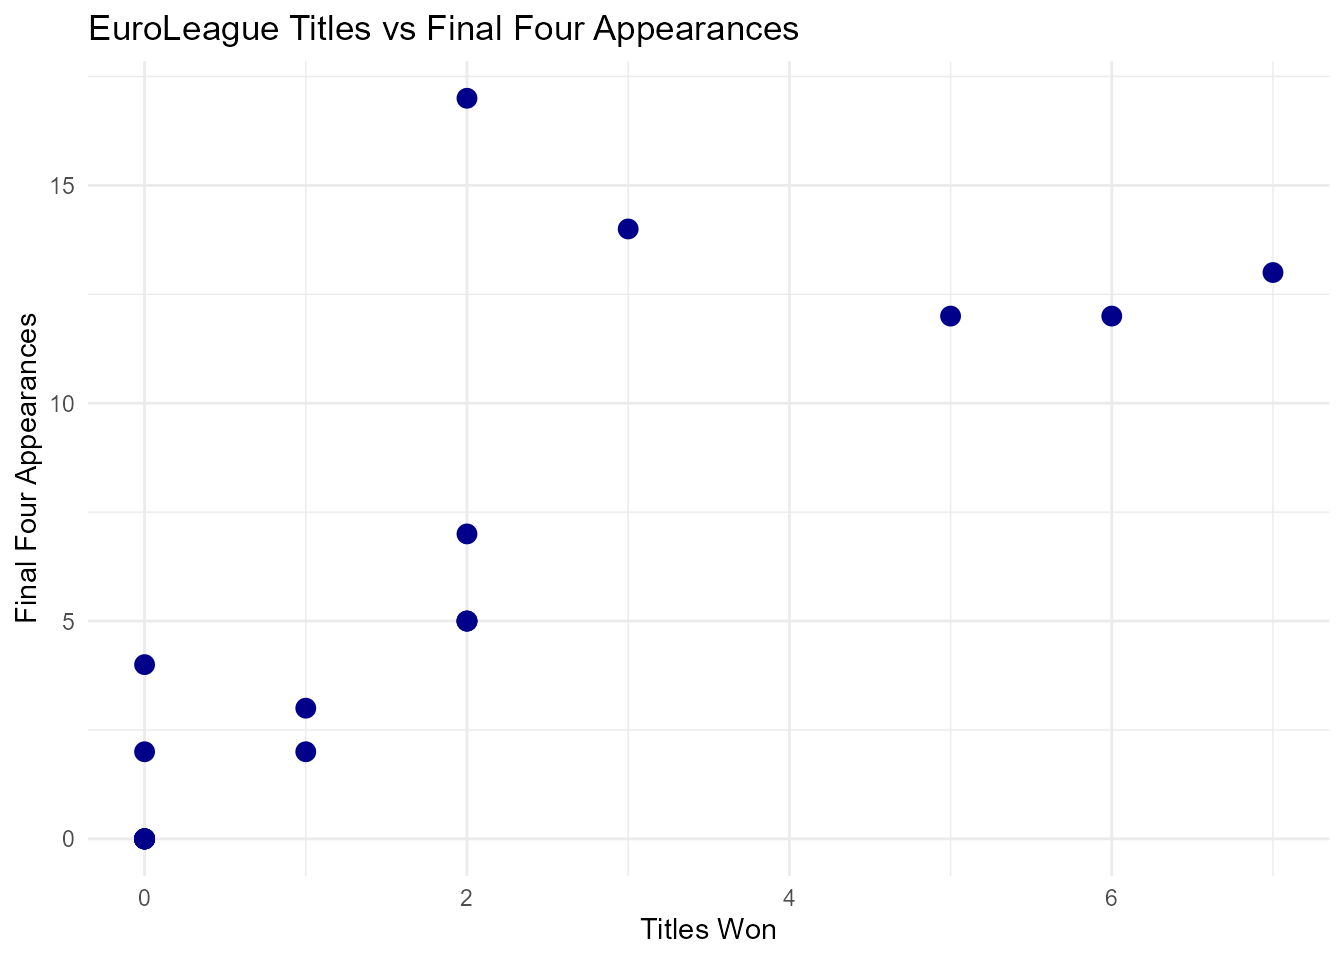
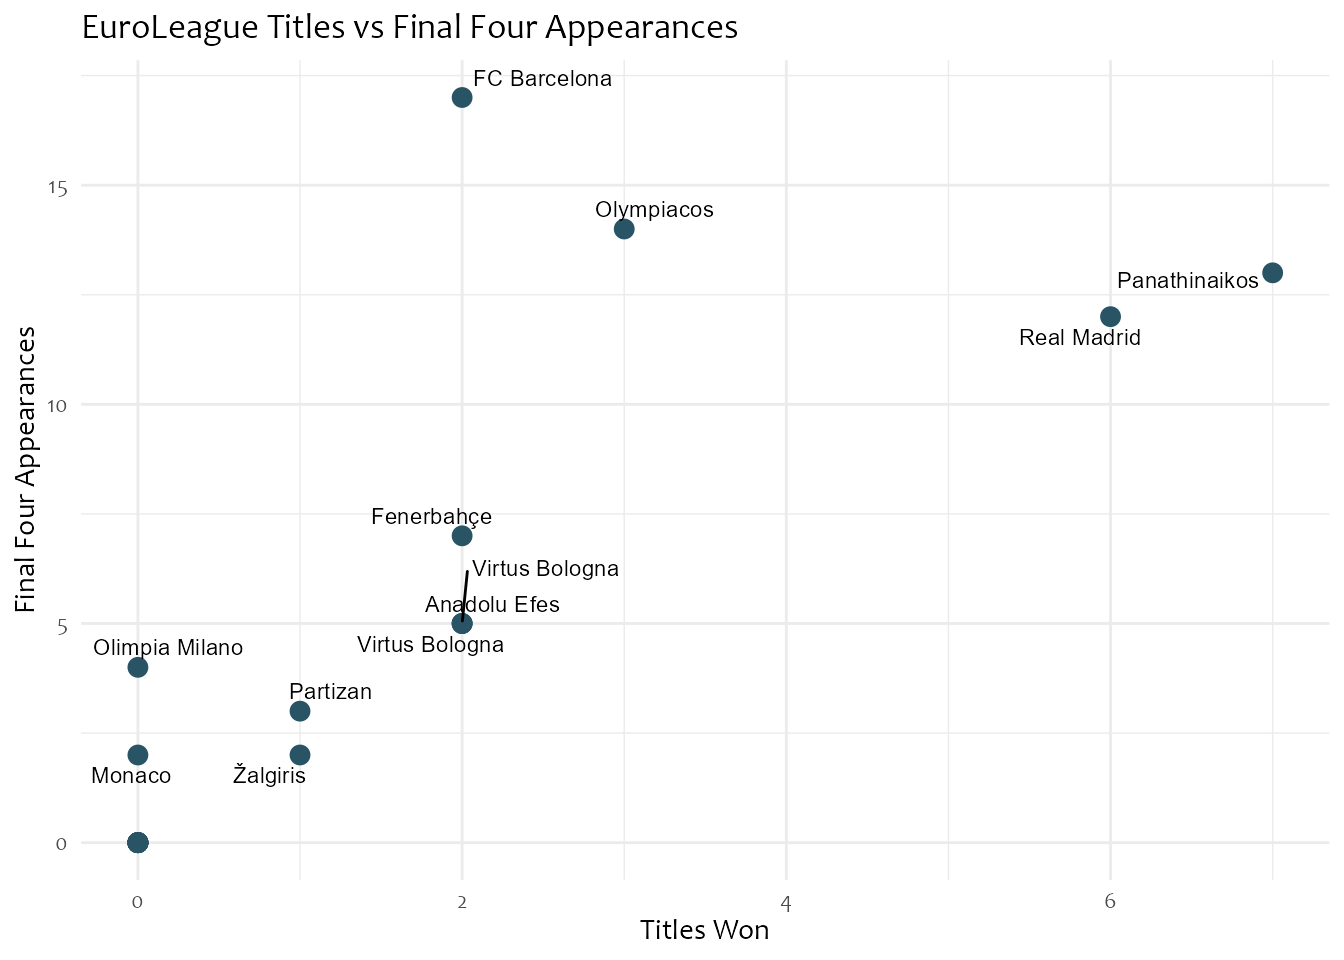
update page

diff --git a/docs/articles/euroleague-visualizations.html b/docs/articles/euroleague-visualizations.html
@@ -71,17 +71,42 @@
     
     
 <div class="sourceCode" id="cb1"><pre class="downlit sourceCode r">
-<code class="sourceCode R"><span><span class="kw"><a href="https://rdrr.io/r/base/library.html" class="external-link">library</a></span><span class="op">(</span><span class="va">EuroleagueBasketball</span><span class="op">)</span></span>
-<span><span class="kw"><a href="https://rdrr.io/r/base/library.html" class="external-link">library</a></span><span class="op">(</span><span class="va"><a href="https://ggplot2.tidyverse.org" class="external-link">ggplot2</a></span><span class="op">)</span></span></code></pre></div>
+<code class="sourceCode R"><span></span>
+<span><span class="kw"><a href="https://rdrr.io/r/base/library.html" class="external-link">library</a></span><span class="op">(</span><span class="va">EuroleagueBasketball</span><span class="op">)</span></span>
+<span><span class="kw"><a href="https://rdrr.io/r/base/library.html" class="external-link">library</a></span><span class="op">(</span><span class="va"><a href="https://ggplot2.tidyverse.org" class="external-link">ggplot2</a></span><span class="op">)</span></span>
+<span><span class="kw"><a href="https://rdrr.io/r/base/library.html" class="external-link">library</a></span><span class="op">(</span><span class="va"><a href="https://ggrepel.slowkow.com/" class="external-link">ggrepel</a></span><span class="op">)</span></span>
+<span><span class="kw"><a href="https://rdrr.io/r/base/library.html" class="external-link">library</a></span><span class="op">(</span><span class="va"><a href="https://r-datatable.com" class="external-link">data.table</a></span><span class="op">)</span></span>
+<span><span class="kw"><a href="https://rdrr.io/r/base/library.html" class="external-link">library</a></span><span class="op">(</span><span class="va"><a href="https://github.com/wch/extrafont" class="external-link">extrafont</a></span><span class="op">)</span></span>
+<span><span class="co">#&gt; Registering fonts with R</span></span></code></pre></div>
 <div class="sourceCode" id="cb2"><pre class="downlit sourceCode r">
-<code class="sourceCode R"><span><span class="fu"><a href="https://ggplot2.tidyverse.org/reference/ggplot.html" class="external-link">ggplot</a></span><span class="op">(</span><span class="va">euroleague_basketball</span>, <span class="fu"><a href="https://ggplot2.tidyverse.org/reference/aes.html" class="external-link">aes</a></span><span class="op">(</span>x <span class="op">=</span> <span class="fu"><a href="https://rdrr.io/r/base/numeric.html" class="external-link">as.numeric</a></span><span class="op">(</span><span class="va">Titles_Won</span><span class="op">)</span>, y <span class="op">=</span> <span class="fu"><a href="https://rdrr.io/r/base/numeric.html" class="external-link">as.numeric</a></span><span class="op">(</span><span class="va">FinalFour_Appearances</span><span class="op">)</span><span class="op">)</span><span class="op">)</span> <span class="op">+</span></span>
-<span>  <span class="fu"><a href="https://ggplot2.tidyverse.org/reference/geom_point.html" class="external-link">geom_point</a></span><span class="op">(</span>color <span class="op">=</span> <span class="st">"darkblue"</span>, size <span class="op">=</span> <span class="fl">3</span><span class="op">)</span> <span class="op">+</span></span>
-<span>  <span class="fu"><a href="https://ggplot2.tidyverse.org/reference/labs.html" class="external-link">labs</a></span><span class="op">(</span></span>
-<span>    title <span class="op">=</span> <span class="st">"EuroLeague Titles vs Final Four Appearances"</span>,</span>
-<span>    x <span class="op">=</span> <span class="st">"Titles Won"</span>,</span>
-<span>    y <span class="op">=</span> <span class="st">"Final Four Appearances"</span></span>
-<span>  <span class="op">)</span> <span class="op">+</span></span>
-<span>  <span class="fu"><a href="https://ggplot2.tidyverse.org/reference/ggtheme.html" class="external-link">theme_minimal</a></span><span class="op">(</span><span class="op">)</span></span></code></pre></div>
+<code class="sourceCode R"><span></span>
+<span><span class="co"># Convert to data.table</span></span>
+<span><span class="va">dt</span> <span class="op">&lt;-</span> <span class="fu"><a href="https://rdatatable.gitlab.io/data.table/reference/as.data.table.html" class="external-link">as.data.table</a></span><span class="op">(</span><span class="va">euroleague_basketball</span><span class="op">)</span></span>
+<span></span>
+<span><span class="co"># Convert columns to numeric</span></span>
+<span><span class="va">dt</span><span class="op">[</span>, <span class="va">Titles_Won_num</span> <span class="op">:=</span> <span class="fu"><a href="https://rdrr.io/r/base/numeric.html" class="external-link">as.numeric</a></span><span class="op">(</span><span class="va">Titles_Won</span><span class="op">)</span><span class="op">]</span></span>
+<span><span class="va">dt</span><span class="op">[</span>, <span class="va">FinalFour_num</span> <span class="op">:=</span> <span class="fu"><a href="https://rdrr.io/r/base/numeric.html" class="external-link">as.numeric</a></span><span class="op">(</span><span class="va">FinalFour_Appearances</span><span class="op">)</span><span class="op">]</span></span>
+<span></span>
+<span></span>
+<span><span class="co"># Plot</span></span>
+<span><span class="fu"><a href="https://ggplot2.tidyverse.org/reference/ggplot.html" class="external-link">ggplot</a></span><span class="op">(</span><span class="va">dt</span>, <span class="fu"><a href="https://ggplot2.tidyverse.org/reference/aes.html" class="external-link">aes</a></span><span class="op">(</span>x <span class="op">=</span> <span class="va">Titles_Won_num</span>, y <span class="op">=</span> <span class="va">FinalFour_num</span><span class="op">)</span><span class="op">)</span> <span class="op">+</span></span>
+<span>    </span>
+<span>    <span class="fu"><a href="https://ggplot2.tidyverse.org/reference/geom_point.html" class="external-link">geom_point</a></span><span class="op">(</span>color <span class="op">=</span> <span class="st">"#295466"</span>, size <span class="op">=</span> <span class="fl">3</span><span class="op">)</span> <span class="op">+</span></span>
+<span>    </span>
+<span>    <span class="fu"><a href="https://ggrepel.slowkow.com/reference/geom_text_repel.html" class="external-link">geom_text_repel</a></span><span class="op">(</span></span>
+<span>        <span class="fu"><a href="https://ggplot2.tidyverse.org/reference/aes.html" class="external-link">aes</a></span><span class="op">(</span>label <span class="op">=</span> <span class="va">Team</span><span class="op">)</span>,</span>
+<span>        size <span class="op">=</span> <span class="fl">3</span></span>
+<span>    <span class="op">)</span> <span class="op">+</span></span>
+<span>    </span>
+<span>    <span class="fu"><a href="https://ggplot2.tidyverse.org/reference/labs.html" class="external-link">labs</a></span><span class="op">(</span></span>
+<span>        title <span class="op">=</span> <span class="st">"EuroLeague Titles vs Final Four Appearances"</span>,</span>
+<span>        x <span class="op">=</span> <span class="st">"Titles Won"</span>,</span>
+<span>        y <span class="op">=</span> <span class="st">"Final Four Appearances"</span></span>
+<span>     <span class="op">)</span> <span class="op">+</span></span>
+<span>    </span>
+<span>  <span class="fu"><a href="https://ggplot2.tidyverse.org/reference/ggtheme.html" class="external-link">theme_minimal</a></span><span class="op">(</span>base_family <span class="op">=</span> <span class="st">"Candara"</span><span class="op">)</span></span>
+<span><span class="co">#&gt; Warning: ggrepel: 11 unlabeled data points (too many overlaps). Consider</span></span>
+<span><span class="co">#&gt; increasing max.overlaps</span></span></code></pre></div>
 <p><img src="euroleague-visualizations_files/figure-html/plot_titles_vs_finalfour-1.png" width="672"></p>
   </main>
 </div>

diff --git a/docs/index.html b/docs/index.html
@@ -58,7 +58,7 @@
 </nav><div class="container template-home">
 <div class="row">
   <main id="main" class="col-md-9"><div class="section level1">
-<div class="page-header"><h1 id="euroleague-basketball">Euroleague Basketball<a class="anchor" aria-label="anchor" href="#euroleague-basketball"></a>
+<div class="page-header"><h1 id="euroleague-basketball-">Euroleague Basketball <img src="/inst/www/logo_nobg.png" align="right" width="130"><a class="anchor" aria-label="anchor" href="#euroleague-basketball-"></a>
 </h1></div>
 <p><a href="LICENSE"><img src="https://img.shields.io/badge/License-MIT-yellow.svg" alt="License: MIT"></a></p>
 <div class="section level2">
@@ -143,7 +143,7 @@
 <h2 data-toc-skip>License</h2>
 <ul class="list-unstyled">
 <li><a href="LICENSE.html">Full license</a></li>
-<li><small>`use_mit_license()`, `use_gpl3_license()` or friends to pick a license</small></li>
+<li><small><a href="https://opensource.org/licenses/mit-license.php" class="external-link">MIT</a> + file <a href="LICENSE-text.html">LICENSE</a></small></li>
 </ul>
 </div>
 
